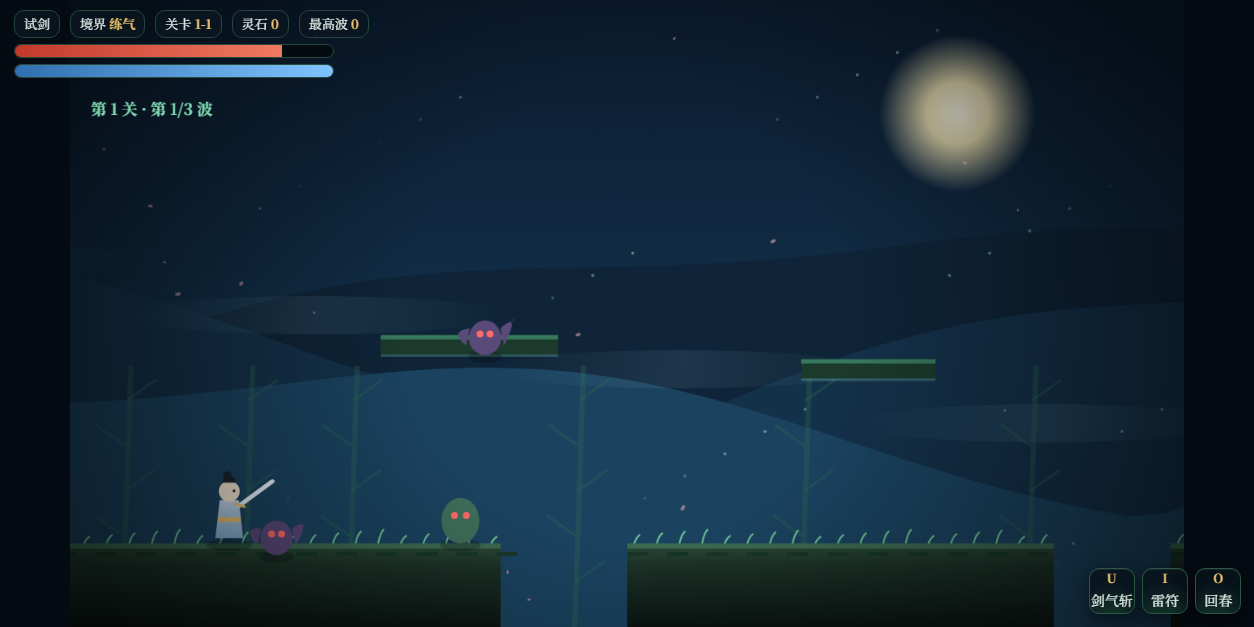
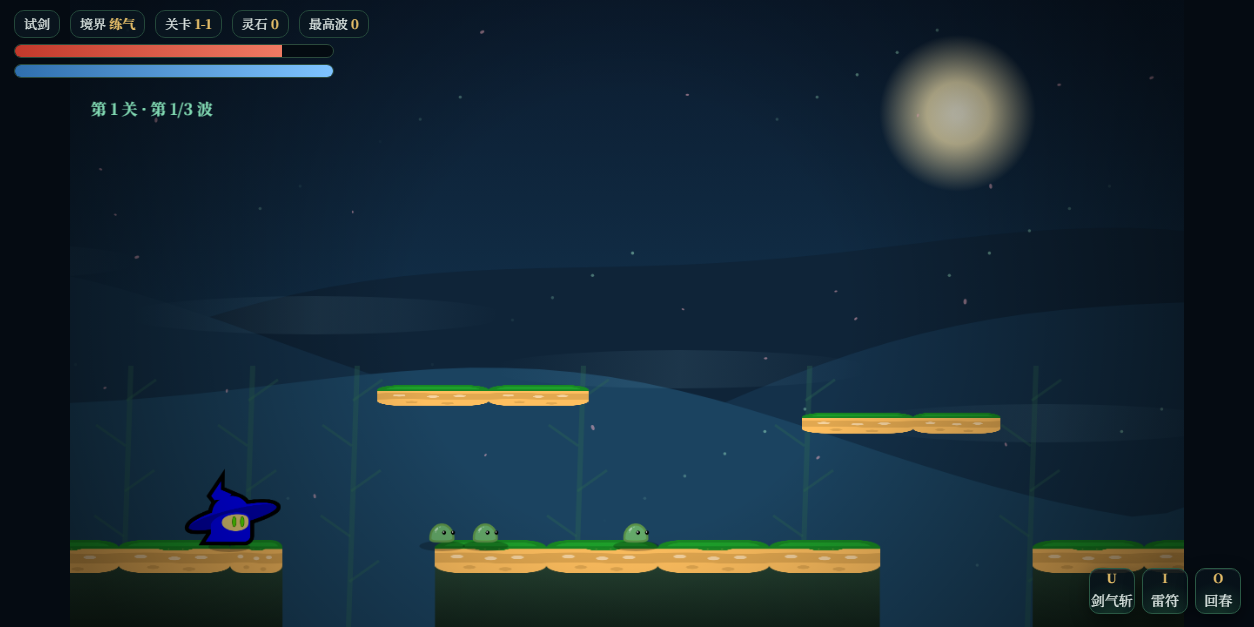
Use CC0 sprite art in the action game and serve game assets
Wire the opengameart 'Free asset pack' (CC0) sprites for player, monsters, ground tiles and crystal drops with procedural fallback, mount /assets on both the console app and the LAN server, and document asset licenses in docs/ASSETS.md.

diff --git a/frontend/rpg-action.html b/frontend/rpg-action.html
@@ -140,6 +140,28 @@
   'use strict';
   const LOGICAL_W = 1280, LOGICAL_H = 720;
   const cv = document.getElementById('cv');
+
+  // ---------------------------------------------------------------- 素材（CC0）
+  // 来源：opengameart.org "Free asset pack"（CC0），见 docs/ASSETS.md
+  const SPRITE_DIR = '/assets/sprites/';
+  function loadImg(name) {
+    const img = new Image();
+    img.src = SPRITE_DIR + name;
+    return img;
+  }
+  const ART = {
+    player: loadImg('Wizard.png'),
+    walker: loadImg('Slime.png'),
+    flyer: loadImg('Ghost.png'),
+    boss: loadImg('Vampire.png'),
+    brute: loadImg('Oldman.png'),
+    ground: loadImg('Ground.png'),
+    grass: loadImg('Grass.png'),
+    crystal: loadImg('Crystal.png'),
+    bush: loadImg('Bush_left.png'),
+  };
+  const artReady = (img) => img && img.complete && img.naturalWidth > 0;
+  const clampV = (v, a, b) => Math.max(a, Math.min(b, v));
   const ctx = cv.getContext('2d');
   const $ = (id) => document.getElementById(id);
 
@@ -481,6 +503,122 @@
     return a.x < b.x + b.w && a.x + a.w > b.x && a.y < b.y + b.h && a.y + a.h > b.y;
   }
 
+
+  // ---------------------------------------------------------------- 精灵绘制（CC0 素材）
+  function drawPlatforms() {
+    if (!artReady(ART.ground)) { drawPlatformsProc(); return; }
+    const TILE = 128;
+    for (const p of platforms) {
+      const x = p.x - G.cameraX;
+      if (x + p.w < -90 || x > LOGICAL_W + 90) continue;
+      if (p.kind === 'ground') {
+        const g = ctx.createLinearGradient(0, p.y, 0, p.y + 140);
+        g.addColorStop(0, '#2b4a38');
+        g.addColorStop(1, '#08140f');
+        ctx.fillStyle = g;
+        ctx.fillRect(x, p.y + 20, p.w, 140);
+        for (let tx = 0; tx < p.w; tx += TILE) {
+          const w = Math.min(TILE, p.w - tx);
+          ctx.drawImage(ART.ground, x + tx, p.y - 4, w, 38);
+        }
+        if (artReady(ART.grass)) {
+          ctx.globalAlpha = 0.95;
+          for (let tx = 0; tx < p.w; tx += TILE) {
+            const w = Math.min(TILE, p.w - tx);
+            ctx.drawImage(ART.grass, x + tx, p.y - 12, w, 20);
+          }
+          ctx.globalAlpha = 1;
+        }
+      } else {
+        for (let tx = 0; tx < p.w; tx += TILE) {
+          const w = Math.min(TILE, p.w - tx);
+          ctx.drawImage(ART.ground, x + tx, p.y, w, 24);
+        }
+      }
+    }
+  }
+
+  function drawPlayer() {
+    if (!artReady(ART.player)) { drawPlayerProc(); return; }
+    const cx = player.x - G.cameraX + player.w / 2;
+    const by = player.y + player.h + 4;
+    ctx.save();
+    ctx.globalAlpha = 0.26; ctx.fillStyle = '#000';
+    ctx.beginPath(); ctx.ellipse(cx, by, 24, 6, 0, 0, 7); ctx.fill();
+    ctx.globalAlpha = 1;
+
+    const h = 110;
+    const w = h * (ART.player.naturalWidth / ART.player.naturalHeight);
+    const bob = player.onGround ? Math.sin(player.animT) * 2.4 : 0;
+    ctx.translate(cx, by + bob);
+    ctx.scale(player.face, 1);
+    ctx.rotate(clampV(player.vx / 1500, -0.1, 0.1) + (player.atkTimer > 0 ? -player.face * 0.1 : 0));
+    if (player.invuln > 0 && Math.floor(G.time * 22) % 2 === 0) ctx.globalAlpha = 0.55;
+    ctx.drawImage(ART.player, -w / 2, -h, w, h);
+    ctx.globalAlpha = 1;
+    if (player.atkTimer > 0) {
+      ctx.strokeStyle = 'rgba(160,240,220,.9)'; ctx.lineWidth = 5;
+      ctx.beginPath(); ctx.arc(w * 0.24, -h * 0.55, 46, -1.2, 0.8); ctx.stroke();
+    }
+    ctx.restore();
+
+    for (const t of (player.trail || [])) {
+      ctx.globalAlpha = t.life * 0.5;
+      ctx.fillStyle = '#7ef0c0';
+      ctx.fillRect(t.x - G.cameraX + 8, t.y + 12, 26, 52);
+    }
+    ctx.globalAlpha = 1;
+  }
+
+  function drawEnemy(e) {
+    const key = e.kind === 'boss' ? ART.boss : e.kind === 'brute' ? ART.brute : e.kind === 'flyer' ? ART.flyer : ART.walker;
+    if (!artReady(key)) { drawEnemyProc(e); return; }
+    const x = e.x - G.cameraX;
+    const baseY = e.y + e.h;
+    const scale = e.kind === 'boss' ? 1.85 : e.kind === 'brute' ? 1.2 : 1.0;
+    const h = 66 * scale;
+    const w = h * (key.naturalWidth / key.naturalHeight);
+    ctx.save();
+    ctx.globalAlpha = 0.25; ctx.fillStyle = '#000';
+    ctx.beginPath(); ctx.ellipse(x + e.w / 2, baseY + 3, w * 0.34, 6, 0, 0, 7); ctx.fill();
+    ctx.globalAlpha = 1;
+    const floatY = e.kind === 'flyer' ? Math.sin(e.t * 2.6) * 5 : 0;
+    ctx.translate(x + e.w / 2, baseY + floatY);
+    if (e.flash > 0) ctx.globalAlpha = 0.85;
+    ctx.scale(e.face * -1, 1);
+    ctx.drawImage(key, -w / 2, -h, w, h);
+    ctx.globalAlpha = 1;
+    if (e.kind === 'boss') {
+      const aura = ctx.createRadialGradient(0, -h * 0.5, 8, 0, -h * 0.5, w * 0.9);
+      aura.addColorStop(0, 'rgba(255,90,110,.22)');
+      aura.addColorStop(1, 'rgba(255,90,110,0)');
+      ctx.fillStyle = aura;
+      ctx.beginPath(); ctx.arc(0, -h * 0.5, w * 0.9, 0, 7); ctx.fill();
+    }
+    ctx.restore();
+    if (e.hp < e.maxHp) {
+      const bw = Math.max(44, e.w * 0.9);
+      const bx = x + e.w / 2 - bw / 2;
+      ctx.fillStyle = 'rgba(0,0,0,.6)'; ctx.fillRect(bx, e.y - 16, bw, 5);
+      ctx.fillStyle = e.kind === 'boss' ? '#ff8b7a' : '#7ce0a0';
+      ctx.fillRect(bx, e.y - 16, bw * Math.max(0, e.hp / e.maxHp), 5);
+    }
+  }
+
+  function drawDrops() {
+    if (!artReady(ART.crystal)) { drawDropsProc(); return; }
+    for (const d of drops) {
+      const x = d.x - G.cameraX, y = d.y;
+      ctx.save();
+      ctx.translate(x, y);
+      ctx.scale(1 + Math.sin(d.t * 6) * 0.12, 1 + Math.sin(d.t * 6) * 0.12);
+      ctx.shadowColor = d.item.color; ctx.shadowBlur = 18;
+      ctx.globalAlpha = 0.95;
+      ctx.drawImage(ART.crystal, -19, -19, 38, 38);
+      ctx.restore();
+    }
+  }
+
   function update(dt) {
     G.time += dt;
     if (G.state !== 'play') { updateDrops(dt); updateParticles(dt); return; }
@@ -802,7 +940,7 @@
     ctx.restore();
   }
 
-  function drawPlatforms() {
+  function drawPlatformsProc() {
     for (const p of platforms) {
       const x = p.x - G.cameraX;
       if (x + p.w < -50 || x > LOGICAL_W + 50) continue;
@@ -835,7 +973,7 @@
     }
   }
 
-  function drawPlayer() {
+  function drawPlayerProc() {
     const x = player.x - G.cameraX + player.w / 2;
     const y = player.y + player.h;
     ctx.save();
@@ -889,7 +1027,7 @@
     ctx.restore();
   }
 
-  function drawEnemy(e) {
+  function drawEnemyProc(e) {
     const x = e.x - G.cameraX, y = e.y;
     ctx.save();
     ctx.translate(x + e.w / 2, y + e.h);
@@ -957,7 +1095,7 @@
     }
   }
 
-  function drawDrops() {
+  function drawDropsProc() {
     for (const d of drops) {
       const x = d.x - G.cameraX, y = d.y;
       const pulse = 1 + Math.sin(d.t * 6) * 0.12;

diff --git a/app/rpg_server.py b/app/rpg_server.py
@@ -8,8 +8,11 @@
 """
 from __future__ import annotations
 
+from pathlib import Path
+
 from fastapi import FastAPI
 from fastapi.middleware.cors import CORSMiddleware
+from fastapi.staticfiles import StaticFiles
 from fastapi.responses import HTMLResponse, RedirectResponse
 
 from app.api.rpg import api_router, page_html, page_router
@@ -23,6 +26,10 @@ app.add_middleware(
 )
 app.include_router(api_router, prefix="/api")
 app.include_router(page_router)
+
+_ASSETS = Path(__file__).resolve().parents[1] / "frontend" / "assets"
+if _ASSETS.is_dir():
+    app.mount("/assets", StaticFiles(directory=str(_ASSETS)), name="game-assets")
 
 
 @app.get("/", response_class=HTMLResponse)

diff --git a/app/main.py b/app/main.py
@@ -197,6 +197,10 @@ app.include_router(ws.router)
 app.include_router(rpg.api_router, prefix="/api", tags=["rpg"])
 app.include_router(rpg.page_router, tags=["rpg"])
 
+_ASSETS_DIR = Path(__file__).resolve().parents[1] / "frontend" / "assets"
+if _ASSETS_DIR.is_dir():
+    app.mount("/assets", StaticFiles(directory=str(_ASSETS_DIR)), name="game-assets")
+
 
 @app.middleware("http")
 async def no_store_api(request: Request, call_next):

diff --git a/docs/ASSETS.md b/docs/ASSETS.md
@@ -1,0 +1,27 @@
+# 游戏素材与授权
+
+## 动作闯关（/rpg/action）用到的第三方素材
+
+| 素材 | 文件 | 来源 | 授权 |
+| --- | --- | --- | --- |
+| 角色 / 怪物 / 地形 / 道具 | `frontend/assets/sprites/*.png` | [Free asset pack · OpenGameArt](https://opengameart.org/content/base-platformer-pack) | **CC0 1.0**（公有领域，可商用、可修改、无需署名） |
+
+用到的具体文件：
+
+- 角色：`Wizard.png`（玩家·修仙者）、`Oldman.png`（石傀/老者）
+- 怪物：`Slime.png`（山魈）、`Ghost.png`（阴灵）、`Vampire.png`（妖将 BOSS）
+- 地形：`Ground*.png`、`Grass*.png`、`Bush*.png`
+- 道具：`Crystal.png`、`Coin.png`、`Heart.png`
+
+CC0 不要求署名，这里仍然写明来源，方便后续替换或追溯。
+
+## 自己画的部分
+
+- 天空、山峦、云带、月晕、竹影、花瓣、剑气/雷符特效、UI 与 HUD 全部是 Canvas 代码绘制（`frontend/rpg-action.html`）。
+- 表情包（`data/stickers`、`docs/assets/stickers`）来自 [dsh-nekowhale-stickers](https://www.npmjs.com/package/dsh-nekowhale-stickers)。
+
+## 想换素材怎么办
+
+1. 把新的 PNG 放进 `frontend/assets/sprites/`；
+2. 改 `frontend/rpg-action.html` 顶部 `ART` 里对应的文件名；
+3. 确保授权允许（CC0 最省事），并把来源补进这张表。
